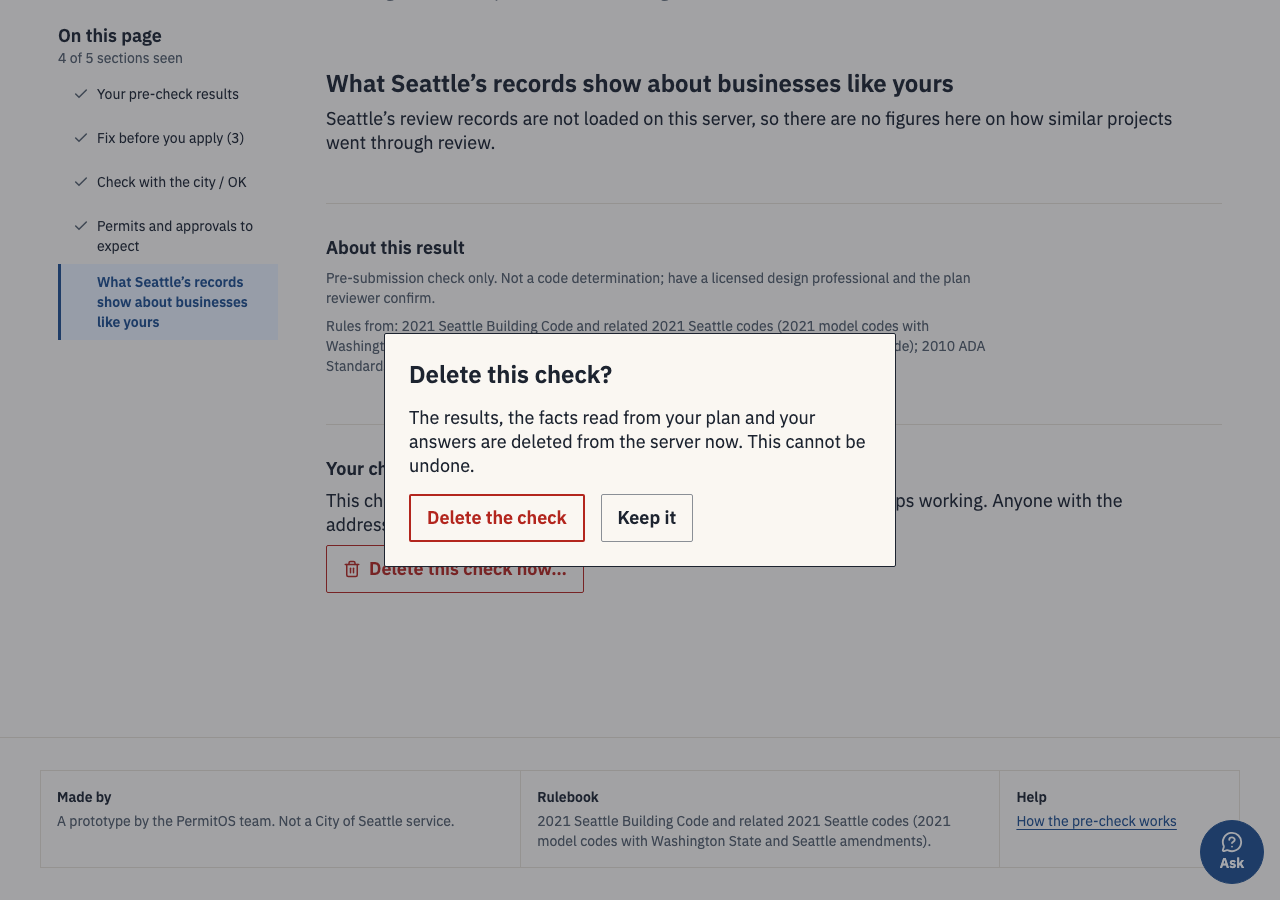
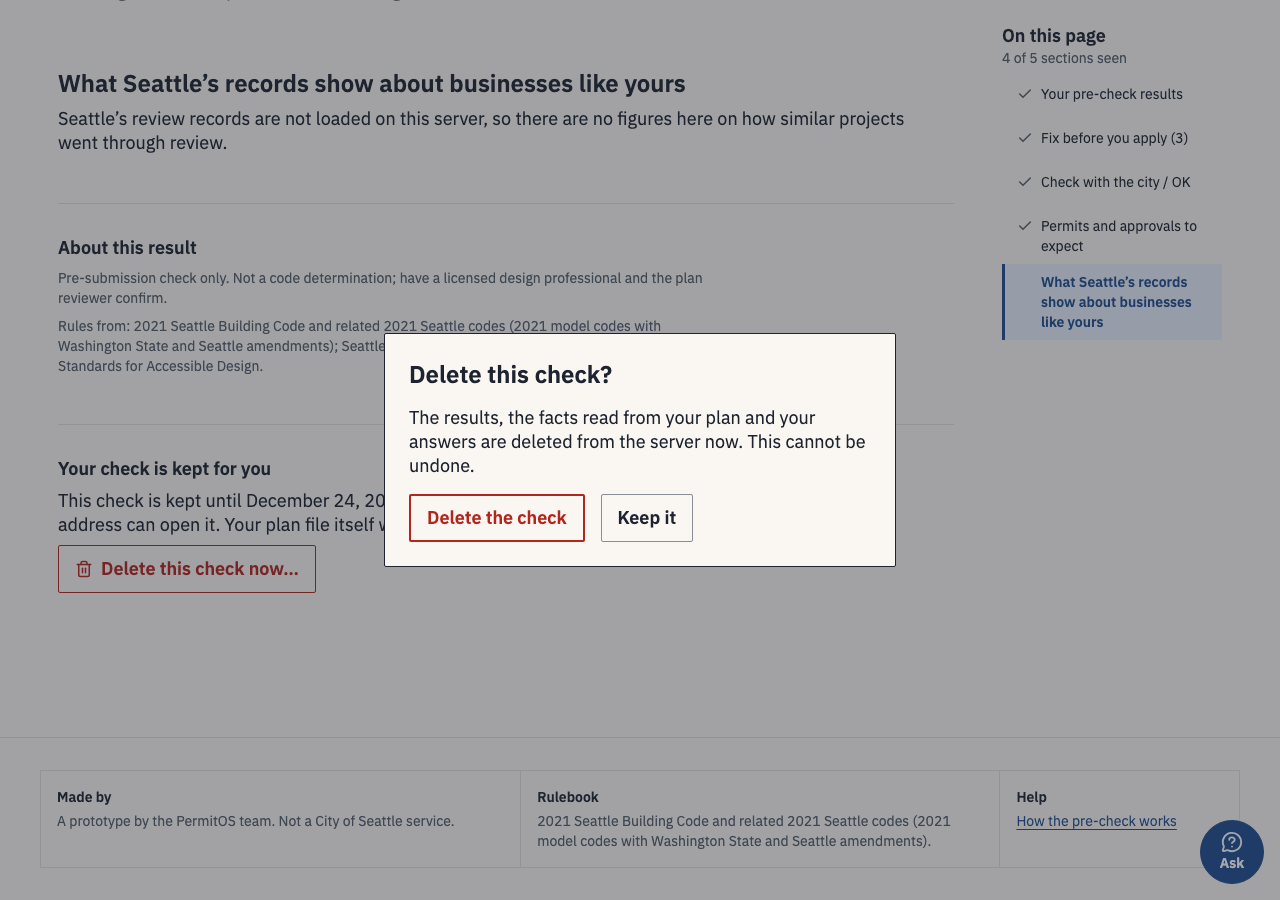
Results: rail on the right, heading over the column, a heading for the tabs
- From 1024 px the On this page rail sits right of the results column. A
  shared .results-frame grid (column, 48 px gap, 220 px rail) places both the
  results and the step line and h1, so the heading is centred over the
  results column. The narrow-screen bar is unchanged.
- "Check with the city / OK" now has a visible h2 above its tabs; jumping to
  that section moves focus to it instead of the selected tab.
- Removed the stage-3 summary-sticky screenshots (the sticky summary is gone)
  and their link in website_progress.md; web/AGENTS.md, which next dev writes,
  is git-ignored.

Tests: e2e checks the rail is right of the column and the heading centred on
it at 1024, 1280 and 1600 px, and that the jump focuses the new heading.
Screenshots regenerated.

diff --git a/web/src/app/results/ResultsPage.tsx b/web/src/app/results/ResultsPage.tsx
@@ -132,8 +132,7 @@ export function Results({ check }: { check: Check }) {
   const sections: PageSection[] = [
     { id: "section-results", label: "Your pre-check results", short: "Your pre-check results", target: () => document.getElementById("page-heading") },
     { id: "section-fix", label: `${look(FIX).group} (${counts[FIX]})`, short: look(FIX).group, target: () => document.getElementById("fix-heading") },
-    { id: "section-tabs", label: TABS_LABEL, short: TABS_LABEL,
-      target: () => document.querySelector<HTMLElement>("#section-tabs [role=tab][aria-selected=true]") },
+    { id: "section-tabs", label: TABS_LABEL, short: TABS_LABEL, target: () => document.getElementById("tabs-heading") },
     { id: "section-permits", label: "Permits and approvals to expect", short: "Permits and approvals", target: () => document.getElementById("permits") },
     { id: "section-records", label: "What Seattle\u2019s records show about businesses like yours", short: "Seattle\u2019s records",
       target: () => document.getElementById("records") },
@@ -141,10 +140,10 @@ export function Results({ check }: { check: Check }) {
   const current = useCurrentSection(sections.map((x) => x.id), "results-end");
 
   return (
-    <div className="mx-auto w-full max-w-[calc(220px+48px+56rem)] min-w-0 lg:grid lg:grid-cols-[220px_minmax(0,1fr)] lg:gap-12">
-      <OnThisPageRail sections={sections} current={current} />
+    <div className="results-frame">
       <OnThisPageBar sections={sections} current={current} />
-    <div className="flex w-full max-w-4xl min-w-0 flex-col gap-12">
+      <OnThisPageRail sections={sections} current={current} />
+    <div className="results-column flex min-w-0 flex-col gap-12">
       <section id="section-results" aria-labelledby="summary-tabs" className="flex flex-col">
         <h2 id="summary-tabs" className="sr-only">Summary</h2>
         <TabRow label="Summary" selected={summaryTab} onSelect={setSummaryTab} items={[
@@ -161,8 +160,8 @@ export function Results({ check }: { check: Check }) {
         <FindingList items={byStatus[FIX]} empty={look(FIX).empty} />
       </section>
 
-      <section id="section-tabs" aria-labelledby="tabs-heading" className="flex flex-col">
-        <h2 id="tabs-heading" className="sr-only">{TABS_LABEL}</h2>
+      <section id="section-tabs" aria-labelledby="tabs-heading" className="flex flex-col gap-4">
+        <h2 id="tabs-heading" tabIndex={-1} className="m-0 text-section-heading">{TABS_LABEL}</h2>
         <TabRow label={TABS_LABEL} selected={findingsTab} onSelect={(k) => setFindingsTab(k as Status)}
           items={TAB_GROUPS.map((st) => ({
             id: st, status: st, label: `${look(st).group} (${counts[st]})`,

diff --git a/web/tests/e2e/results.spec.ts b/web/tests/e2e/results.spec.ts
@@ -227,6 +227,16 @@ test("On this page at 1280 px: marks the current section and the ones seen, jump
   const rail = page.getByRole("navigation", { name: "On this page" });
   await expect(rail).toBeVisible();
   expect((await rail.boundingBox())!.width).toBe(220);
+  for (const width of [1024, 1280, 1600]) {
+    // The rail sits right of the results column, and the heading is centred over that column.
+    await page.setViewportSize({ width, height: 900 });
+    const column = (await page.locator("#section-results").boundingBox())!;
+    const railBox = (await rail.boundingBox())!;
+    const heading = (await page.getByRole("heading", { level: 1 }).boundingBox())!;
+    expect(railBox.x, `rail right of the column at ${width}`).toBeGreaterThanOrEqual(column.x + column.width + 47);
+    expect(Math.abs(heading.x + heading.width / 2 - (column.x + column.width / 2)), `heading centred on the column at ${width}`).toBeLessThanOrEqual(1);
+  }
+  await page.setViewportSize({ width: 1280, height: 900 });
   await expect(page.getByRole("button", { name: /^On this page:/ })).toBeHidden();        // the compact bar is for phones
   await expect(rail.getByTestId("sections-seen")).toHaveText("0 of 5 sections seen");
   expect((await railStates(page))[0]).toEqual(["Your pre-check results", "current", "location", false, false]);
@@ -255,7 +265,7 @@ test("On this page at 1280 px: marks the current section and the ones seen, jump
   await expect(rail.getByTestId("sections-seen")).toHaveText("1 of 5 sections seen");
 
   await rail.getByRole("link", { name: "Check with the city / OK" }).click();
-  await expect(page.getByRole("tab", { name: "Check with the city (2)" })).toBeFocused();
+  await expect(page.getByRole("heading", { level: 2, name: "Check with the city / OK" })).toBeFocused();
   await rail.getByRole("link", { name: "Your pre-check results" }).click();
   await expect(page.getByRole("heading", { level: 1 })).toBeFocused();
   await expect(rail.getByTestId("sections-seen")).toHaveText("0 of 5 sections seen");

diff --git a/web/src/components/flow/PageShell.tsx b/web/src/components/flow/PageShell.tsx
@@ -9,17 +9,26 @@ export function PageShell({ step, back, title, children, wide = false, center = 
   title: React.ReactNode;
   children?: React.ReactNode;
   wide?: boolean;
-  /** The step line and the h1 centred (the results page only). */
+  /** The step line and the h1 centred over the results column (the results page only; see .results-frame). */
   center?: boolean;
 }) {
   return (
     <div className="page-grid pt-6">
       <div className={wide ? "col-span-full min-w-0" : "col-question"}>
         {back ? <BackLink href={back} /> : null}
-        <div className={center ? "mt-6 flex flex-col items-center gap-2 text-center" : "mt-6 flex flex-col gap-2"}>
-          {step ? <StepLine step={step} /> : null}
-          <PageHeading>{title}</PageHeading>
-        </div>
+        {center ? (
+          <div className="results-frame mt-6">
+            <div className="results-column flex flex-col items-center gap-2 text-center">
+              {step ? <StepLine step={step} /> : null}
+              <PageHeading>{title}</PageHeading>
+            </div>
+          </div>
+        ) : (
+          <div className="mt-6 flex flex-col gap-2">
+            {step ? <StepLine step={step} /> : null}
+            <PageHeading>{title}</PageHeading>
+          </div>
+        )}
       </div>
       <div className={wide ? "col-span-full mt-8 min-w-0" : "col-question mt-8"}>{children}</div>
     </div>

diff --git a/web/src/components/results/OnThisPage.tsx b/web/src/components/results/OnThisPage.tsx
@@ -5,7 +5,7 @@
  * Out: a nav landmark that marks the current section (active tint, aria-current="location"), the sections already
  * scrolled past (a check icon and "seen" for screen readers), and the ones still to come (plain), with "2 of 5 sections
  * seen" at the top. Choosing a section jumps there and moves focus to its heading.
- * At 1024 px and wider it is a sticky rail about 220 px wide; below that, a compact bar at the bottom left, clear of
+ * At 1024 px and wider it is a sticky rail 220 px wide, right of the results column; below that, a compact bar at the bottom left, clear of
  * the Ask button, that opens the same list in a popover. The position comes from IntersectionObserver. Nothing moves.
  */
 import { useEffect, useState } from "react";
@@ -109,7 +109,7 @@ function SectionList({ sections, current, onJump }: { sections: PageSection[]; c
 /** The rail beside the results (1024 px and up). */
 export function OnThisPageRail({ sections, current }: { sections: PageSection[]; current: number }) {
   return (
-    <nav aria-label="On this page" className="hidden lg:block">
+    <nav aria-label="On this page" className="results-rail hidden lg:block">
       <div className="sticky top-6 max-h-[calc(100dvh-48px)] overflow-y-auto overscroll-contain">
         <SectionList sections={sections} current={current} onJump={(i) => jumpTo(sections[i])} />
       </div>

diff --git a/web/tests/unit/results.test.tsx b/web/tests/unit/results.test.tsx
@@ -74,11 +74,13 @@ describe("the results page", () => {
   it("lists the five sections in order in the On this page landmark", () => {
     render(<Results check={flawed()} />);
     const navs = screen.getAllByRole("navigation", { name: "On this page" });
-    const items = within(navs[0]).getAllByRole("link").map((a) => a.textContent);
+    expect(navs).toHaveLength(2);                                     // the compact bar (phones) and the rail (wide)
+    const rail = navs.find((n) => within(n).queryAllByRole("link").length)!;
+    const items = within(rail).getAllByRole("link").map((a) => a.textContent);
     expect(items).toEqual(["Your pre-check results", "Fix before you apply (11)", "Check with the city / OK",
       "Permits and approvals to expect", "What Seattle’s records show about businesses like yours"]);
-    expect(within(navs[0]).getAllByRole("link")[0].getAttribute("aria-current")).toBe("location");
-    expect(within(navs[0]).getByText("0 of 5 sections seen")).toBeTruthy();
+    expect(within(rail).getAllByRole("link")[0].getAttribute("aria-current")).toBe("location");
+    expect(within(rail).getByText("0 of 5 sections seen")).toBeTruthy();
   });
 
   it("keeps the selected tabs for this check across a refresh", () => {

diff --git a/web/src/styles/tokens.css b/web/src/styles/tokens.css
@@ -150,6 +150,15 @@
     text-wrap: balance;
   }
   .measure { max-width: 80ch; }
+  /* The results page: the results column (at most 896 px) and, from 1024 px, the 220 px "On this page" rail to its
+     right with a 48 px gap. The page heading uses the same frame, so it is centred over the results column. */
+  .results-frame { width: 100%; max-width: calc(56rem + 48px + 220px); margin-inline: auto; min-width: 0; }
+  .results-column { width: 100%; max-width: 56rem; margin-inline: auto; min-width: 0; }
+  @media (min-width: 64rem) {
+    .results-frame { display: grid; grid-template-columns: minmax(0, 1fr) 220px; column-gap: 48px; }
+    .results-frame > .results-column { grid-column: 1; grid-row: 1; }
+    .results-frame > .results-rail { grid-column: 2; grid-row: 1; }
+  }
   .nums { font-variant-numeric: tabular-nums; }
 }
 

diff --git a/DESIGN.md b/DESIGN.md
@@ -55,7 +55,7 @@ onto these tokens only (`background` paper, `foreground` ink, `primary` blue, `r
 | `text-page` | 32 / 40 px phones, 40 / 48 px from 1024 px | The `h1`, which is the page's question. |
 | Measure | at most about 80 characters | Comfortable reading; the 7-column question column gives about 75. |
 | Figures | `tabular-nums` wherever numbers are compared | Columns of numbers line up. |
-| Alignment | left; no centred paragraphs, no all-capitals. The one exception: the results page's step line and `h1` are centred **[owner, 24 Nov 2026]** | Easier to read and scan; the centred results heading marks the end of the flow. |
+| Alignment | left; no centred paragraphs, no all-capitals. The one exception: the results page's step line and `h1` are centred over the results column **[owner, 24 Nov 2026]** | Easier to read and scan; the centred results heading marks the end of the flow. |
 
 ## Spacing
 
@@ -86,7 +86,8 @@ and ending on a column edge.
 - Results **[owner, 24 Nov 2026]**: five sections in one column at most 896 px wide: the heading and the summary
   tabs; "Fix before you apply (n)" in full; the "Check with the city / OK" tabs; the permits; Seattle's records; then
   the rest. The sticky summary column is gone; its three parts are tabs. From 1024 px the "On this page" rail
-  (220 px) sits to the left of that column with a 48 px gap, the two centred together.
+  (220 px) sits to the right of that column with a 48 px gap, the two centred together (`.results-frame`). The
+  step line and `h1` use the same frame, so they are centred over the results column, not the whole page.
 - Start: text-only in version 1, in columns 1 to 7 like the question pages. **[D1, on hold]** Only if the
   owner confirms the drawing's rights: heading and text in columns 1 to 6, the drawing in 6 to 12; under the text on phones.
 
@@ -119,9 +120,9 @@ landmark labelled "On this page".
   screen readers. Sections still to come are plain `ink`. Each item is at least 44 px tall.
 - A section is current once its top passes a line 30% of the way down the window, or when the page is scrolled to
   its end. The position comes from IntersectionObserver; nothing animates (see Motion).
-- Choosing an item scrolls to the section and moves focus to its heading (the `h1` for the first; for the tabs
-  section, its selected tab, since that section's heading is for screen readers only).
-- From 1024 px: a sticky vertical rail, 220 px wide, left of the results column.
+- Choosing an item scrolls to the section and moves focus to its heading: the `h1` "Your pre-check results" for
+  the first, and the visible `h2` of every other section, including "Check with the city / OK" above its tabs.
+- From 1024 px: a sticky vertical rail, 220 px wide, right of the results column.
 - Below 1024 px: no rail. A compact bar fixed at the bottom left, 16 px from the edges and 96 px from the right so
   it sits clear of the Ask button: "Section 2 of 5 · Next: Check with the city / OK". It opens the full list in a React
   Aria popover above it. The page's `scroll-padding-bottom` (96 px) keeps a focused control clear of both the bar

diff --git a/docs/website_progress.md b/docs/website_progress.md
@@ -296,7 +296,7 @@ API text wraps (`break-words`). Not applicable: forms.
 **Screenshots.** Flawed café: top [375](screenshots/stage-3/cafe-flawed-top-375.png), [1280](screenshots/stage-3/cafe-flawed-top-1280.png),
 full page [375](screenshots/stage-3/cafe-flawed-full-375.png), [1280](screenshots/stage-3/cafe-flawed-full-1280.png);
 a card with the code reference open [375](screenshots/stage-3/card-code-reference-375.png), [1280](screenshots/stage-3/card-code-reference-1280.png);
-the summary in view after scrolling [375](screenshots/stage-3/summary-sticky-375.png), [1280](screenshots/stage-3/summary-sticky-1280.png);
+the summary in view after scrolling (removed with the sticky summary column on `layout-permitos`);
 compliant café [375](screenshots/stage-3/cafe-compliant-375.png), [1280](screenshots/stage-3/cafe-compliant-1280.png);
 with Seattle's records [375](screenshots/stage-3/with-records-375.png), [1280](screenshots/stage-3/with-records-1280.png)
 (without them: the top screenshots above, "not loaded on this server");
